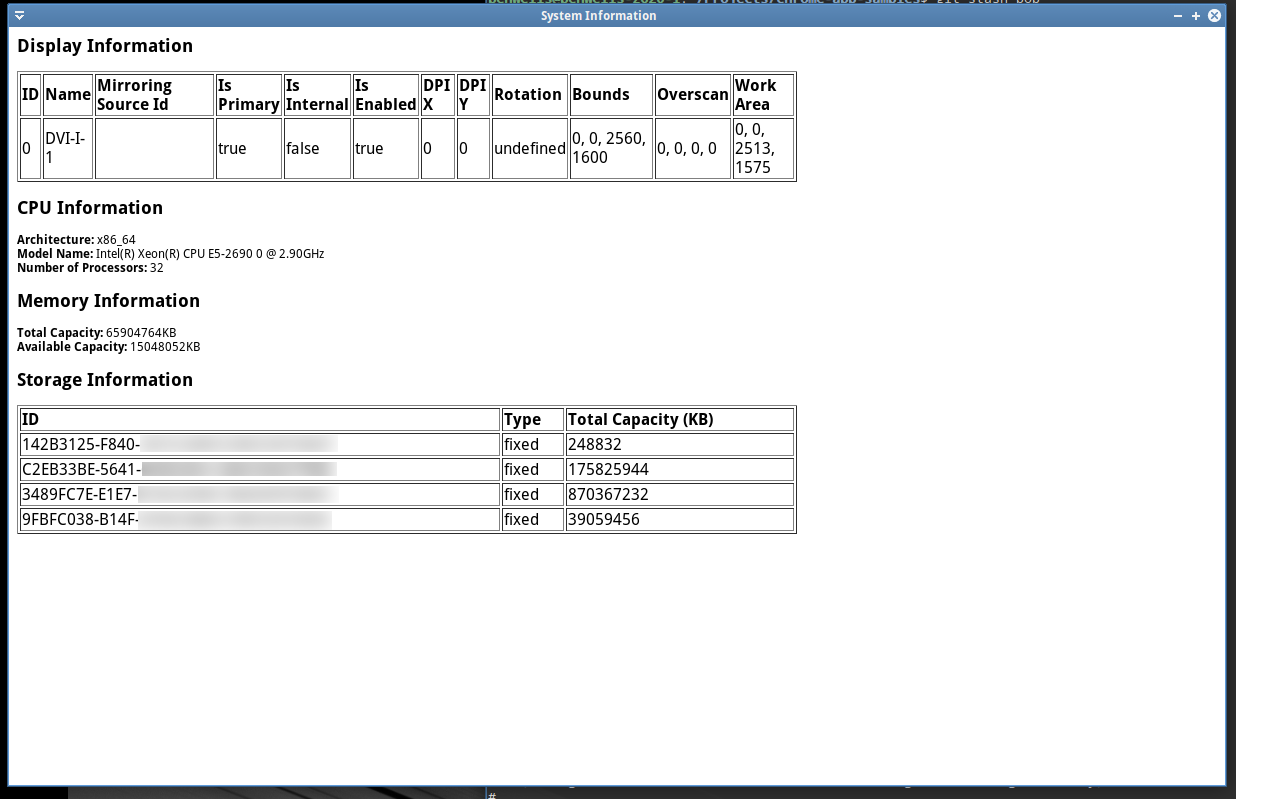
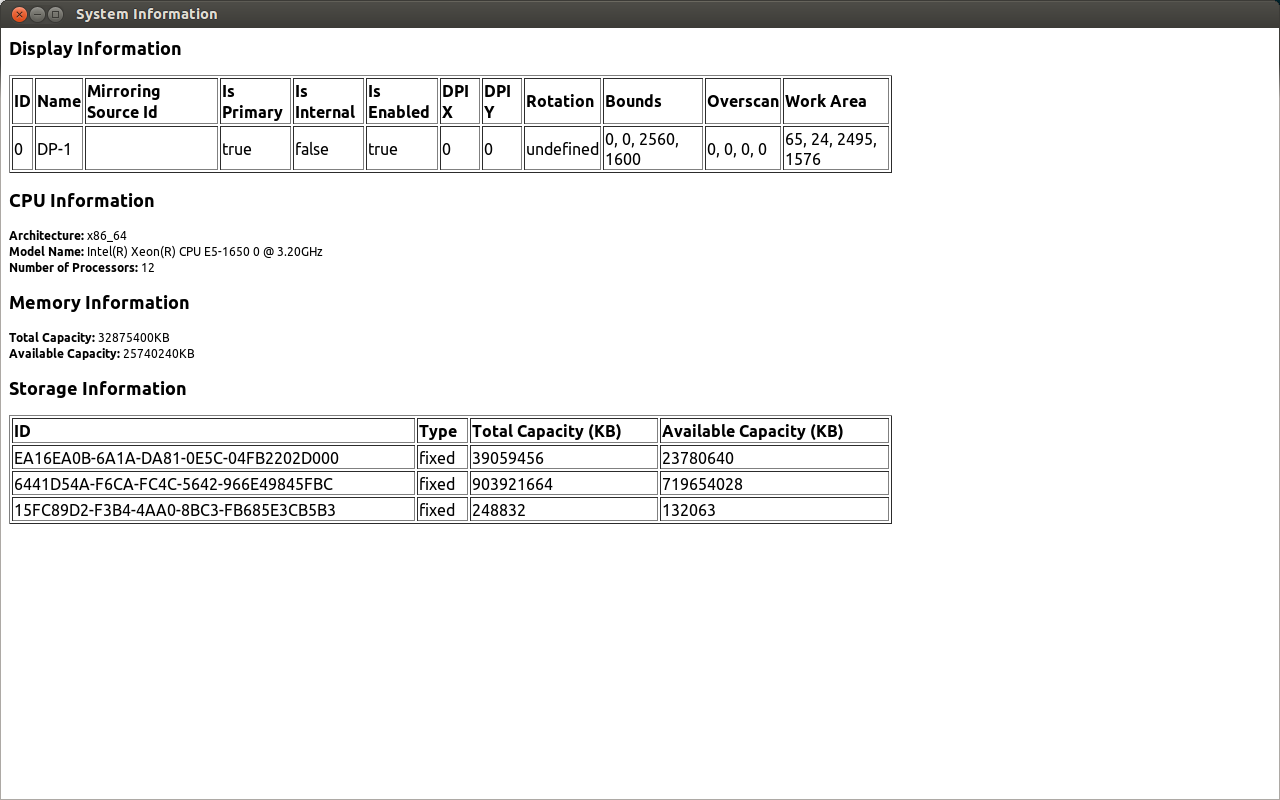
[systemInfo] Added systemInfo.storage.getAvailableCapacity

Changed region(s): [[0.0, 0.0, 1.0, 1.0]]

diff --git a/systemInfo/systemInfo.js b/systemInfo/systemInfo.js
@@ -35,6 +35,7 @@ function showStorageInfo(unit) {
   table = "<tr><td>" + unit.id + "</td>" +
     "<td>" + unit.type + "</td>" +
     "<td>" + Math.round(unit.capacity/1024) + "</td>" +
+    "<td>" + Math.round(unit.availableCapacity/1024) + "</td>" +
     "</tr>\n";
   return table;
 }
@@ -42,7 +43,7 @@ function showStorageInfo(unit) {
 function init() {
   // Get display information.
   systemInfo.display.getInfo(function(displays) {
-    var table = "<table width=65% border=\"1\">\n" +
+    var table = "<table width=70% border=\"1\">\n" +
       "<tr><td><b>ID</b></td>" +
       "<td><b>Name</b></td>" +
       "<td><b>Mirroring Source Id</b></td>" +
@@ -85,17 +86,23 @@ function init() {
 
   // Get storage information.
   systemInfo.storage.getInfo(function(units) {
-    var table = "<table width=65% border=\"1\">\n" +
+    var table = "<table width=70% border=\"1\">\n" +
       "<tr><td><b>ID</b></td>" +
       "<td><b>Type</b></td>" +
       "<td><b>Total Capacity (KB)</b></td>" +
+      "<td><b>Available Capacity (KB)</b></td>" +
       "</tr>\n";
-    for (var i = 0; i < units.length; i++) {
-      table += showStorageInfo(units[i]);
-    }
-    table += "</table>\n";
-    var div = document.getElementById("storage-list");
-    div.innerHTML = table;
+    units.forEach(function(unit, index) {
+      systemInfo.storage.getAvailableCapacity(unit.id, function(info) {
+        unit.availableCapacity = info.availableCapacity;
+        table += showStorageInfo(unit);
+        if (index == units.length - 1) {
+          table += "</table>\n";
+          var div = document.getElementById("storage-list");
+          div.innerHTML = table;
+        }
+      })
+    });
   });
 }
 
